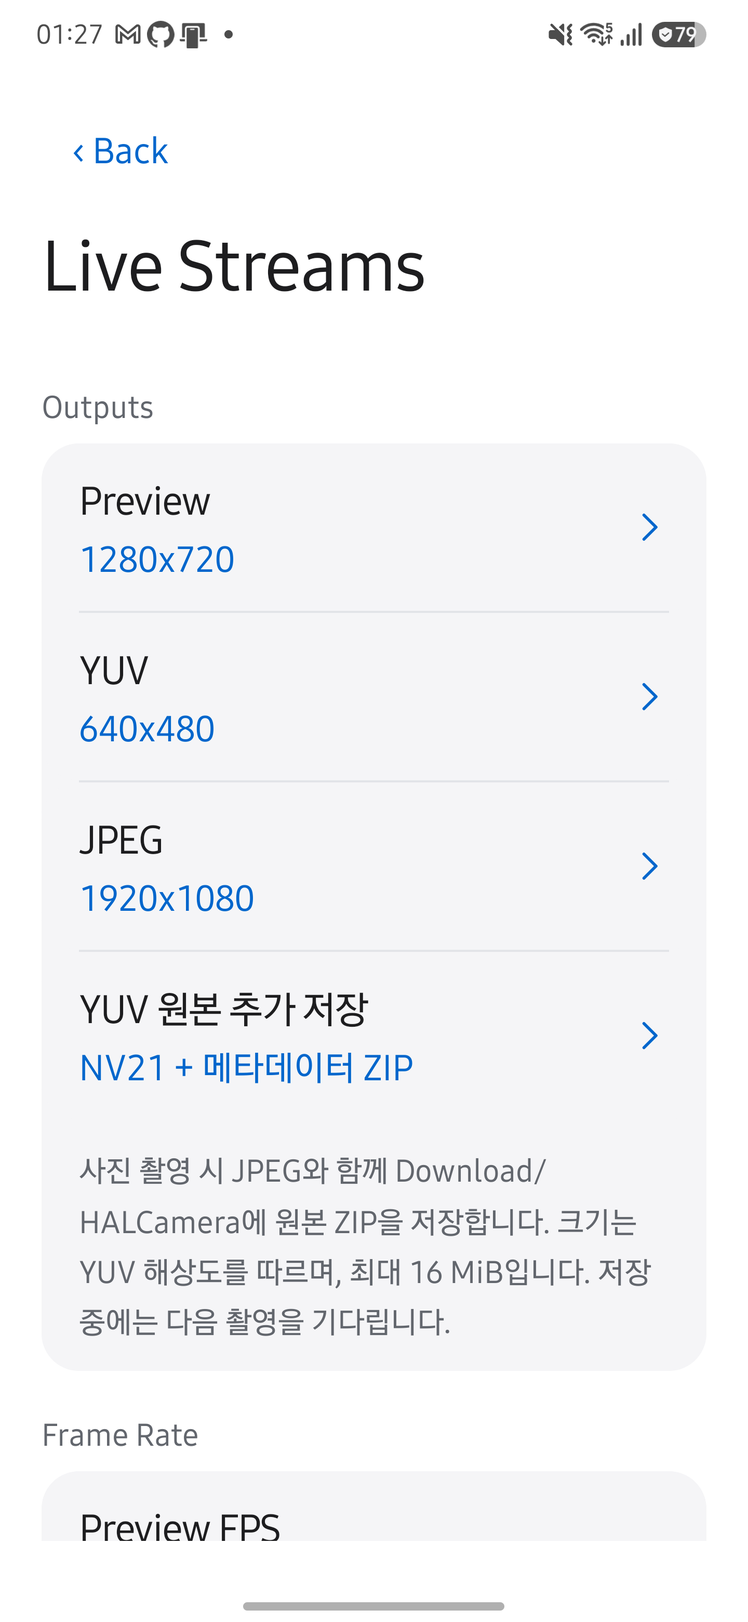
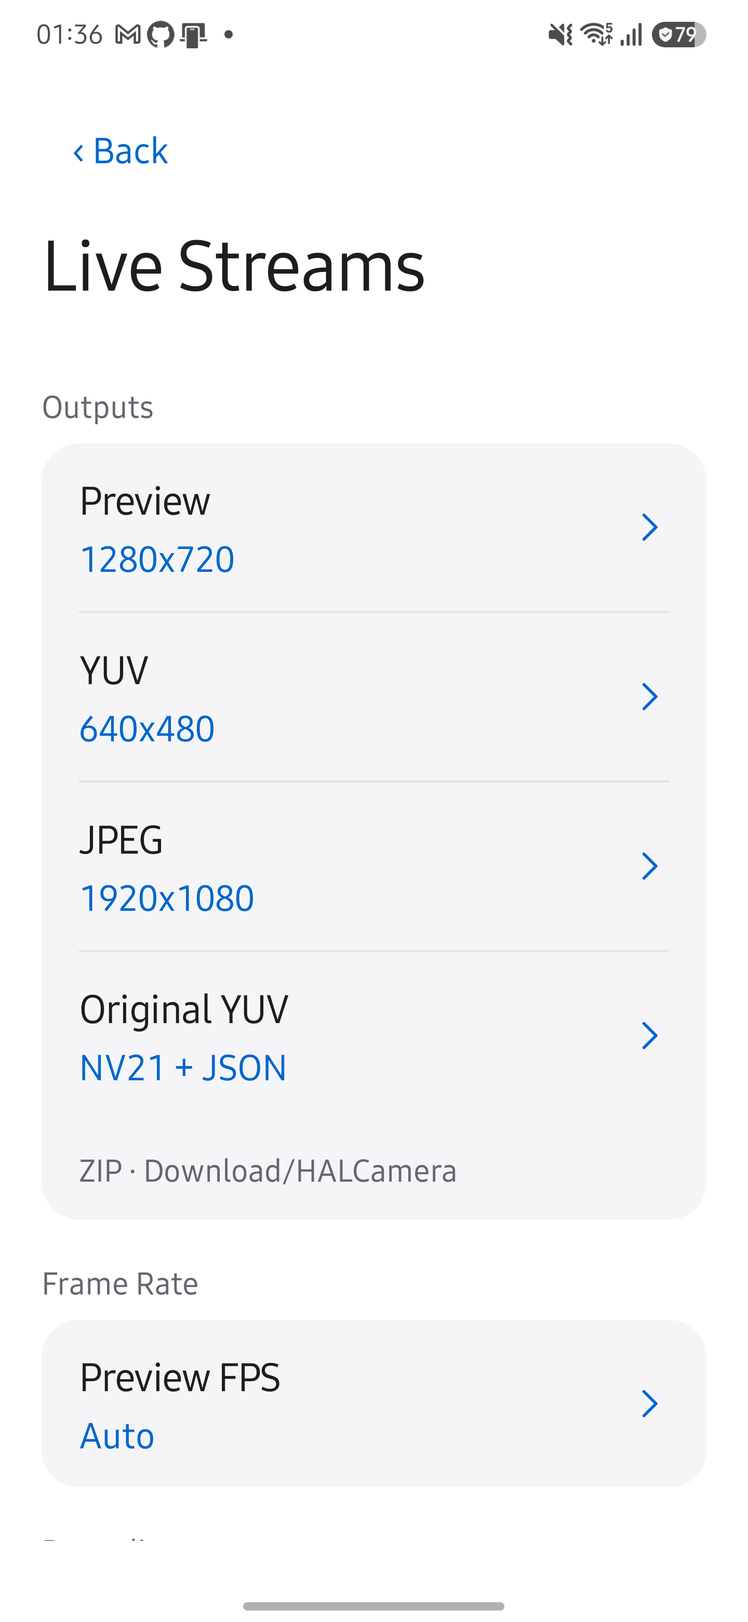
Trim YUV export UI for camera developers

diff --git a/docs/engine.html b/docs/engine.html
@@ -148,7 +148,7 @@
 <summary>근거와 검토 정보</summary><ul>
 <li>근거 파일: <code>app/src/main/java/dev/halcamera/camera/CameraEngine.kt</code>, <code>app/src/main/java/dev/halcamera/camera/Camera2Engine.kt</code>, <code>app/src/main/java/dev/halcamera/camera/CameraXEngine.kt</code>, <code>app/src/main/java/dev/halcamera/MainActivity.kt</code>, <code>app/src/main/java/dev/halcamera/ui/LiveControlBar.kt</code>, <code>app/src/main/java/dev/halcamera/ui/FocusRing.kt</code>, <code>app/src/main/java/dev/halcamera/camera/LiveControls.kt</code>, <code>app/src/main/java/dev/halcamera/benchmark/BenchmarkActivity.kt</code>, <code>app/src/main/java/dev/halcamera/benchmark/domain/StartCardPresenter.kt</code>, <code>app/src/main/java/dev/halcamera/cli/LiveController.kt</code>, <code>app/src/main/java/dev/halcamera/telemetry/Telemetry.kt</code></li>
 <li>근거 수준: 코드 확인</li>
-<li>검토 2026-10-07 @ <code>9bd40ec</code> · Codex-code-review</li>
+<li>검토 2026-10-07 @ <code>6ce2f25</code> · Codex-code-review</li>
 </ul>
 </details><!-- omm:end id=contract --><h2 id="camera2-엔진">Camera2 엔진</h2>
 <!-- omm:begin id=camera2 --><p><strong>Camera2Engine은 앱에서 CaptureRequest를 직접 구성합니다.</strong> <code>request_observed</code>에 기록한 키를 HAL 로그와 대조할 수 있습니다. 엔진 자체는 세션, 요청 구성, 줌, Live 제어를 담당하고, 사진은 <code>Camera2StillCapture</code>, Live 녹화는 <code>Camera2LiveRecorder</code>, 터치 측광은 <code>Camera2TouchFocus</code>, 벤치마크 녹화는 <code>BenchmarkRecorder</code>가 맡습니다. 카메라 요청과 capture 콜백은 엔진이 만든 카메라 스레드 하나에서 처리하고, 버퍼 relay와 파일 저장은 각자의 스레드에서 처리합니다.</p>
@@ -202,7 +202,7 @@
 </ol>
 <p>벤치마크 still은 JPEG만 대상으로 하고, JPEG 도착이 측정값이며 저장하지 않습니다.</p>
 <h4 id="yuv-원본-추가-저장">YUV 원본 추가 저장</h4>
-<p>Android 10 이상의 Camera2에서는 Live Streams의 <code>YUV 원본 추가 저장</code>을 켜면 기존 JPEG와 함께 <code>Download/HALCamera/&lt;촬영명&gt;_YUV.zip</code>을 저장합니다. YUV 출력을 켜야 하며 짝수 크기, 프레임당 16 MiB 이하만 허용합니다. CameraX에서는 이 옵션을 지원하지 않고 Camera2 전환 안내를 표시합니다. 녹화 중 사진과 CLI의 기본 촬영은 이 옵션을 사용하지 않습니다.</p>
+<p>Android 10 이상의 Camera2에서는 Live Streams의 <code>Original YUV</code>을 켜면 기존 JPEG와 함께 <code>Download/HALCamera/&lt;촬영명&gt;_YUV.zip</code>을 저장합니다. YUV 출력을 켜야 하며 짝수 크기, 프레임당 16 MiB 이하만 허용합니다. CameraX에서는 이 옵션을 지원하지 않고 Camera2 전환 안내를 표시합니다. 녹화 중 사진과 CLI의 기본 촬영은 이 옵션을 사용하지 않습니다.</p>
 <p>ZIP의 <code>frame.nv21</code>은 YUV_420_888의 크롭 영역에 있는 8비트 샘플을 손실 없이 다시 배열한 파일입니다. Y를 행 순서로 쓰고 V·U를 교대로 쓰며 패딩, 회전, JPEG 압축, 색 변환을 적용하지 않습니다. <code>metadata.json</code>에는 출력 크기·바이트 수·각 plane의 offset/rowStride/pixelStride와 원본 이미지 크기·crop·plane stride를 기록합니다. 원본 plane의 패딩이나 크롭 밖 픽셀은 보존하지 않으며, 색 행렬과 범위를 임의로 가정하지 않습니다. 저장소의 <code>docs/design/ORIGINAL-YUV.md</code>에 복원 규칙이 있습니다.</p>
 <p>원본 저장은 이미지와 같은 <code>SENSOR_TIMESTAMP</code>를 가진 최종 CaptureResult까지 기다립니다. 메타데이터에 카메라 ID, 요청 ID·태그, 프레임 번호, 센서 시각과 시각 소스, 실제 노출 시간·ISO·프레임 주기·AE 상태, JPEG 방향을 보존합니다. 결과가 없으면 5초 뒤 실패하며 다른 프리뷰 결과로 대체하지 않습니다. 타임스탬프를 알기 전에는 출력마다 최대 두 프레임만 보관하고, 알게 되면 다른 시각의 버퍼를 버립니다. 저장이 끝날 때까지 다음 촬영을 받지 않으며, 이미 저장을 시작한 촬영은 화면이 닫혀도 완료 결과를 전달합니다. RAW/DNG 저장은 아직 제공하지 않습니다.</p>
 <h3 id="녹화">녹화</h3>
@@ -260,7 +260,7 @@
 <summary>근거와 검토 정보</summary><ul>
 <li>근거 파일: <code>app/src/main/java/dev/halcamera/camera/Camera2Engine.kt</code>, <code>app/src/main/java/dev/halcamera/camera/CameraOpenRetry.kt</code>, <code>app/src/main/java/dev/halcamera/camera/CameraReleaseWait.kt</code>, <code>app/src/main/java/dev/halcamera/camera/LiveStreamSettings.kt</code>, <code>app/src/main/java/dev/halcamera/camera/LiveStabilization.kt</code>, <code>app/src/main/java/dev/halcamera/camera/LiveStreamCapabilities.kt</code>, <code>app/src/main/java/dev/halcamera/camera/LiveSessionCheck.kt</code>, <code>app/src/main/java/dev/halcamera/camera/Camera2StillCapture.kt</code>, <code>app/src/main/java/dev/halcamera/camera/Camera2LiveRecorder.kt</code>, <code>app/src/main/java/dev/halcamera/camera/Camera2VideoSnapshot.kt</code>, <code>app/src/main/java/dev/halcamera/camera/VideoSnapshot.kt</code>, <code>app/src/main/java/dev/halcamera/camera/BenchmarkRecorder.kt</code>, <code>app/src/main/java/dev/halcamera/camera/PreviewBufferRelay.kt</code>, <code>app/src/main/java/dev/halcamera/camera/RecordingBufferRelay.kt</code>, <code>app/src/main/java/dev/halcamera/camera/StreamConfiguration.kt</code>, <code>app/src/main/java/dev/halcamera/camera/StillPair.kt</code>, <code>app/src/main/java/dev/halcamera/camera/YuvPacking.kt</code>, <code>app/src/main/java/dev/halcamera/camera/OriginalYuv.kt</code>, <code>app/src/main/java/dev/halcamera/camera/StillEncoding.kt</code>, <code>app/src/main/java/dev/halcamera/camera/MediaLibrary.kt</code>, <code>app/src/main/java/dev/halcamera/camera/LiveControls.kt</code>, <code>app/src/main/java/dev/halcamera/camera/LiveControlRequests.kt</code>, <code>app/src/main/java/dev/halcamera/camera/ManualControls.kt</code>, <code>app/src/main/java/dev/halcamera/camera/ManualControlRequests.kt</code>, <code>app/src/main/java/dev/halcamera/camera/TouchMeter.kt</code>, <code>app/src/main/java/dev/halcamera/camera/TouchMeterRequests.kt</code></li>
 <li>근거 수준: 코드 확인</li>
-<li>검토 2026-10-07 @ <code>9bd40ec</code> · Codex-code-review</li>
+<li>검토 2026-10-07 @ <code>6ce2f25</code> · Codex-code-review</li>
 </ul>
 </details><!-- omm:end id=camera2 --><h2 id="camerax-엔진">CameraX 엔진</h2>
 <!-- omm:begin id=camerax --><p>CameraX의 Live Streams도 Auto·Off 및 지원되는 OIS·EIS 모드를 제공합니다. EIS 후보는 하드웨어 모드와 CameraX의 Preview·Video 보정 capability를 교차해 표시합니다. EIS (Preview + Video)는 Preview builder에, EIS (Video)는 녹화 시 VideoCapture builder에 요청합니다. 다른 builder는 미지정으로 두어 명시적인 Off가 보정을 취소하지 않게 합니다. OIS는 Camera2Interop으로 요청하고 EIS와 함께 켜지 않습니다. Auto는 보정 옵션을 지정하지 않습니다.</p>
@@ -335,7 +335,7 @@
 <summary>근거와 검토 정보</summary><ul>
 <li>근거 파일: <code>app/src/main/java/dev/halcamera/camera/CameraXEngine.kt</code>, <code>app/src/main/java/dev/halcamera/camera/CameraXStillCapture.kt</code>, <code>app/src/main/java/dev/halcamera/camera/CameraXLiveRecorder.kt</code>, <code>app/src/main/java/dev/halcamera/camera/CameraXVideoSnapshot.kt</code>, <code>app/src/main/java/dev/halcamera/camera/VideoSnapshot.kt</code>, <code>app/src/main/java/dev/halcamera/camera/CameraXControls.kt</code>, <code>app/src/main/java/dev/halcamera/camera/StillEncoding.kt</code>, <code>app/src/main/java/dev/halcamera/camera/YuvPacking.kt</code>, <code>app/src/main/java/dev/halcamera/camera/MediaLibrary.kt</code>, <code>app/src/main/java/dev/halcamera/camera/StreamConfiguration.kt</code>, <code>app/src/main/java/dev/halcamera/camera/LiveControls.kt</code>, <code>app/src/main/java/dev/halcamera/camera/TouchMeter.kt</code>, <code>app/build.gradle.kts</code></li>
 <li>근거 수준: 코드 확인</li>
-<li>검토 2026-10-07 @ <code>9bd40ec</code> · Codex-code-review</li>
+<li>검토 2026-10-07 @ <code>6ce2f25</code> · Codex-code-review</li>
 </ul>
 </details><!-- omm:end id=camerax --><h2 id="두-엔진의-차이">두 엔진의 차이</h2>
 <!-- omm:begin id=comparison --><p><strong>두 엔진의 측정값을 비교하기 전에 아래 차이가 결과에 영향을 주는지 확인하세요.</strong> 같은 조작이라도 엔진이 카메라에 보내는 요청과 앱이 기록하는 시각이 다를 수 있습니다.</p>
@@ -422,7 +422,7 @@
 <summary>근거와 검토 정보</summary><ul>
 <li>근거 파일: <code>app/src/main/java/dev/halcamera/camera/Camera2Engine.kt</code>, <code>app/src/main/java/dev/halcamera/camera/Camera2StillCapture.kt</code>, <code>app/src/main/java/dev/halcamera/camera/Camera2LiveRecorder.kt</code>, <code>app/src/main/java/dev/halcamera/camera/TouchMeterRequests.kt</code>, <code>app/src/main/java/dev/halcamera/camera/CameraXEngine.kt</code>, <code>app/src/main/java/dev/halcamera/camera/CameraXStillCapture.kt</code>, <code>app/src/main/java/dev/halcamera/camera/CameraXLiveRecorder.kt</code>, <code>app/src/main/java/dev/halcamera/camera/CameraXControls.kt</code>, <code>app/src/main/java/dev/halcamera/MainActivity.kt</code></li>
 <li>근거 수준: 코드 확인</li>
-<li>검토 2026-10-07 @ <code>9bd40ec</code> · Codex-code-review</li>
+<li>검토 2026-10-07 @ <code>6ce2f25</code> · Codex-code-review</li>
 </ul>
 </details><!-- omm:end id=comparison --><h3 id="기기에서-관찰한-차이">기기에서 관찰한 차이</h3>
 <p>Galaxy S25+에서 확인한 CameraX 관찰 결과와 검증 조건은 <a href="evidence.html#camerax-기기-관찰">Evidence</a>에 있습니다.</p>
@@ -446,27 +446,27 @@
 <tbody><tr>
 <td>구조 원본 <code>overall-architecture</code></td>
 <td>최신</td>
-<td>검토 2026-10-07 @ <code>9bd40ec</code> · Codex-code-review</td>
+<td>검토 2026-10-07 @ <code>6ce2f25</code> · Codex-code-review</td>
 </tr>
 <tr>
 <td>원고 <code>contract</code></td>
 <td>최신</td>
-<td>검토 2026-10-07 @ <code>9bd40ec</code> · Codex-code-review</td>
+<td>검토 2026-10-07 @ <code>6ce2f25</code> · Codex-code-review</td>
 </tr>
 <tr>
 <td>원고 <code>camera2</code></td>
 <td>최신</td>
-<td>검토 2026-10-07 @ <code>9bd40ec</code> · Codex-code-review</td>
+<td>검토 2026-10-07 @ <code>6ce2f25</code> · Codex-code-review</td>
 </tr>
 <tr>
 <td>원고 <code>camerax</code></td>
 <td>최신</td>
-<td>검토 2026-10-07 @ <code>9bd40ec</code> · Codex-code-review</td>
+<td>검토 2026-10-07 @ <code>6ce2f25</code> · Codex-code-review</td>
 </tr>
 <tr>
 <td>원고 <code>comparison</code></td>
 <td>최신</td>
-<td>검토 2026-10-07 @ <code>9bd40ec</code> · Codex-code-review</td>
+<td>검토 2026-10-07 @ <code>6ce2f25</code> · Codex-code-review</td>
 </tr>
 </tbody></table>
 <!-- omm:end id=status --><p>표의 <code>최신</code>은 기록된 근거와 원고가 검토 이후 바뀌지 않았다는 뜻입니다. 모든 기기에서 동작을 검증했다는 뜻은 아닙니다.</p>

diff --git a/docs/architecture.html b/docs/architecture.html
@@ -114,7 +114,7 @@
 <summary>근거와 검토 정보</summary><ul>
 <li>근거 파일: <code>app/src/main/java/dev/halcamera/cli/CommandCoordinator.kt</code>, <code>tools/halcam/halcam/cli.py</code>, <code>app/src/main/java/dev/halcamera/MainActivity.kt</code>, <code>app/src/main/java/dev/halcamera/WorkbenchActivity.kt</code>, <code>app/src/main/java/dev/halcamera/camera/CameraEngine.kt</code>, <code>app/src/main/java/dev/halcamera/telemetry/Telemetry.kt</code>, <code>app/src/main/java/dev/halcamera/telemetry/FlightRecorder.kt</code>, <code>app/src/main/java/dev/halcamera/benchmark/domain/BenchmarkRunner.kt</code>, <code>app/src/main/java/dev/halcamera/benchmark/domain/RunAssembler.kt</code>, <code>app/src/main/java/dev/halcamera/benchmark/domain/ScoreComposer.kt</code>, <code>app/src/main/java/dev/halcamera/benchmark/BenchmarkActivity.kt</code>, <code>app/src/main/java/dev/halcamera/benchmark/HistoryActivity.kt</code>, <code>app/src/main/java/dev/halcamera/benchmark/domain/RegressionDetector.kt</code></li>
 <li>근거 수준: 코드 확인</li>
-<li>검토 2026-10-07 @ <code>9bd40ec</code> · Codex-code-review</li>
+<li>검토 2026-10-07 @ <code>6ce2f25</code> · Codex-code-review</li>
 </ul>
 </details><!-- omm:end id=overview --><h2 id="전체-구조도">전체 구조도</h2>
 <p>그림을 클릭하면 확대 화면이 열립니다. 키보드에서는 Tab으로 그림을 선택한 뒤 Enter 또는 Space를 누르세요.</p>
@@ -187,7 +187,7 @@
 <summary>근거와 검토 정보</summary><ul>
 <li>근거 파일: <code>app/src/main/java/dev/halcamera/cli/CommandCoordinator.kt</code>, <code>app/src/main/java/dev/halcamera/cli/LiveController.kt</code>, <code>app/src/main/java/dev/halcamera/cli/BenchmarkController.kt</code>, <code>app/src/main/java/dev/halcamera/camera/CameraEngine.kt</code>, <code>app/src/main/java/dev/halcamera/camera/BenchmarkRecorder.kt</code>, <code>app/src/main/java/dev/halcamera/benchmark/platform/EnvironmentProbe.kt</code>, <code>app/src/main/java/dev/halcamera/benchmark/BenchmarkActivity.kt</code>, <code>app/src/main/java/dev/halcamera/benchmark/HistoryActivity.kt</code>, <code>app/src/main/java/dev/halcamera/benchmark/domain/RunIndex.kt</code>, <code>app/src/main/java/dev/halcamera/benchmark/domain/BenchmarkCsv.kt</code>, <code>app/src/main/java/dev/halcamera/benchmark/domain/ScoreComposer.kt</code>, <code>app/src/main/java/dev/halcamera/benchmark/platform/BenchmarkReport.kt</code>, <code>app/src/main/java/dev/halcamera/benchmark/domain/BenchmarkReportCodec.kt</code>, <code>app/src/main/java/dev/halcamera/telemetry/FlightRecorder.kt</code>, <code>app/src/main/java/dev/halcamera/MainActivity.kt</code>, <code>app/src/main/java/dev/halcamera/camera/RecentMediaThumbnail.kt</code>, <code>app/src/main/java/dev/halcamera/ui/RecentMediaButton.kt</code>, <code>app/src/main/java/dev/halcamera/ui/Look.kt</code>, <code>app/src/main/java/dev/halcamera/cts/recording/BasicRecordingRules.kt</code>, <code>app/src/main/java/dev/halcamera/cts/CtsEntryActivity.kt</code>, <code>app/src/main/java/dev/halcamera/cts/vendored/VendoredCaseActivity.kt</code>, <code>app/src/main/java/dev/halcamera/cts/vendored/VendoredCtsListActivity.kt</code>, <code>app/src/main/java/dev/halcamera/cts/CtsCaseActivity.kt</code>, <code>app/src/main/java/dev/halcamera/cts/CtsCaseListActivity.kt</code>, <code>app/src/main/java/dev/halcamera/cts/suite/CtsChecklistActivity.kt</code>, <code>app/src/main/java/dev/halcamera/cts/suite/CtsSuiteRunActivity.kt</code>, <code>app/src/main/java/dev/halcamera/cts/suite/SuitePlan.kt</code>, <code>app/src/main/java/dev/halcamera/cts/suite/SuiteReport.kt</code>, <code>app/src/main/java/dev/halcamera/cts/CtsCatalog.kt</code>, <code>app/src/main/java/dev/halcamera/cts/CtsRunner.kt</code>, <code>app/src/main/java/dev/halcamera/cts/CameraCaseRunner.kt</code>, <code>app/src/main/java/dev/halcamera/cts/Camera2Ops.kt</code>, <code>app/src/main/java/dev/halcamera/cts/onoff/FastOnOffRules.kt</code>, <code>app/src/main/java/dev/halcamera/cts/switching/SwitchingRules.kt</code>, <code>app/src/main/java/dev/halcamera/cts/sizes/AllSizeOnOffRules.kt</code>, <code>app/src/main/java/dev/halcamera/cts/combination/StillPreviewCombinationRules.kt</code>, <code>app/src/main/java/dev/halcamera/cts/snapshot/VideoSnapshotRules.kt</code>, <code>app/src/main/java/dev/halcamera/CameraProbeActivity.kt</code>, <code>app/src/main/java/dev/halcamera/camera/CameraProbe.kt</code>, <code>app/src/main/java/dev/halcamera/camera/CameraProbeReader.kt</code></li>
 <li>근거 수준: 코드 확인</li>
-<li>검토 2026-10-07 @ <code>9bd40ec</code> · Codex-code-review</li>
+<li>검토 2026-10-07 @ <code>6ce2f25</code> · Codex-code-review</li>
 </ul>
 </details><!-- omm:end id=module-roles --><h2 id="주요-실행-흐름">주요 실행 흐름</h2>
 <!-- omm:begin id=runtime-flow --><p><strong>실행 실패는 러너 결과에서, 측정값의 차이는 이벤트와 계산 규칙에서 확인하세요.</strong> 벤치마크의 입력은 카메라 콜백 이벤트와 러너가 기록한 실행 시각입니다.</p>
@@ -370,7 +370,7 @@
 <summary>근거와 검토 정보</summary><ul>
 <li>근거 파일: <code>app/src/main/java/dev/halcamera/cli/CliProvider.kt</code>, <code>app/src/main/java/dev/halcamera/cli/CommandCoordinator.kt</code>, <code>app/src/main/java/dev/halcamera/cli/CommandStore.kt</code>, <code>app/src/main/java/dev/halcamera/camera/CameraEngine.kt</code>, <code>app/src/main/java/dev/halcamera/camera/CameraEndpointResolver.kt</code>, <code>app/src/main/java/dev/halcamera/telemetry/IncidentExporter.kt</code>, <code>app/src/main/java/dev/halcamera/benchmark/domain/BenchmarkRunner.kt</code>, <code>app/src/main/java/dev/halcamera/benchmark/domain/RunValidity.kt</code>, <code>app/src/main/java/dev/halcamera/benchmark/domain/ScoreComposer.kt</code>, <code>app/src/main/java/dev/halcamera/benchmark/domain/RegressionRules.kt</code>, <code>app/src/main/java/dev/halcamera/benchmark/platform/BenchmarkReport.kt</code>, <code>app/src/main/java/dev/halcamera/benchmark/domain/BenchmarkReportCodec.kt</code>, <code>app/src/main/java/dev/halcamera/benchmark/platform/BenchmarkStore.kt</code>, <code>app/src/main/java/dev/halcamera/benchmark/domain/BenchmarkIndex.kt</code>, <code>app/src/main/java/dev/halcamera/benchmark/domain/AtomicFiles.kt</code></li>
 <li>근거 수준: 코드 확인</li>
-<li>검토 2026-10-07 @ <code>9bd40ec</code> · Codex-code-review</li>
+<li>검토 2026-10-07 @ <code>6ce2f25</code> · Codex-code-review</li>
 </ul>
 </details><!-- omm:end id=constraints --><h2 id="변경-후-검증">변경 후 검증</h2>
 <p>Android 의존성이 없는 러너와 평가 로직은 JVM 단위 테스트로 확인할 수 있습니다. 저장소 루트에서 실행하세요.</p>
@@ -414,7 +414,7 @@
 <tr>
 <td>구조 원본 <code>overall-architecture</code></td>
 <td>최신</td>
-<td>검토 2026-10-07 @ <code>9bd40ec</code> · Codex-code-review</td>
+<td>검토 2026-10-07 @ <code>6ce2f25</code> · Codex-code-review</td>
 </tr>
 <tr>
 <td>구조 원본 <code>state-transitions</code></td>
@@ -439,12 +439,12 @@
 <tr>
 <td>원고 <code>overview</code></td>
 <td>최신</td>
-<td>검토 2026-10-07 @ <code>9bd40ec</code> · Codex-code-review</td>
+<td>검토 2026-10-07 @ <code>6ce2f25</code> · Codex-code-review</td>
 </tr>
 <tr>
 <td>원고 <code>module-roles</code></td>
 <td>최신</td>
-<td>검토 2026-10-07 @ <code>9bd40ec</code> · Codex-code-review</td>
+<td>검토 2026-10-07 @ <code>6ce2f25</code> · Codex-code-review</td>
 </tr>
 <tr>
 <td>원고 <code>runtime-flow</code></td>
@@ -454,7 +454,7 @@
 <tr>
 <td>원고 <code>constraints</code></td>
 <td>최신</td>
-<td>검토 2026-10-07 @ <code>9bd40ec</code> · Codex-code-review</td>
+<td>검토 2026-10-07 @ <code>6ce2f25</code> · Codex-code-review</td>
 </tr>
 </tbody></table>
 <!-- omm:end id=status --><p>표의 <code>최신</code>은 기록된 근거와 원고가 검토 이후 바뀌지 않았다는 뜻입니다. 모든 기기에서 동작을 검증했다는 뜻은 아닙니다.</p>

diff --git a/app/src/main/java/dev/halcamera/camera/Camera2StillCapture.kt b/app/src/main/java/dev/halcamera/camera/Camera2StillCapture.kt
@@ -194,7 +194,7 @@ internal class Camera2StillCapture(
             val request = host.stillRequest(camera, c, tag, pending?.rotation)
             inFlight = true
             photo = pending
-            if (pending != null) host.report("Capturing ${photoLabel()}… Say cheese.", false)
+            if (pending != null) host.report("Capturing ${photoLabel()}…", false)
             telemetry.event(sessionId, "capture_submit", mapOf("requestTag" to tag, "api" to "CameraCaptureSession.capture", "zoomRequested" to host.zoomRequested))
             session.capture(request, if (pending == null) host.captureCallback else photoCallback(pending), handler)
             handler.postDelayed({
@@ -253,7 +253,7 @@ internal class Camera2StillCapture(
         val (yuvFrame, jpegBytes) = pending.pair.selected(host.captureYuv, host.captureJpeg) ?: return
         pending.pair.clear() // Only the IO job owns the selected buffers from this point.
         photo = null // Keep inFlight until the pair has been written.
-        host.report(if (pending.originalYuv) "Saving JPEG and original YUV ZIP to Download/HALCamera…" else "Saving photos…", false)
+        host.report(if (pending.originalYuv) "Saving JPEG + NV21…" else "Saving JPEG…", false)
         mediaIo.execute {
             val result = runCatching { library.savePhotos(pending.name, yuvFrame?.let { encodeYuvStill(it, pending.rotation) }, jpegBytes,
                 yuvFrame?.original, pending.captureMetadata.orEmpty()) }
@@ -279,12 +279,12 @@ internal class Camera2StillCapture(
                 inFlight = false
                 result.fold({
                     host.report(savedMessage(pending, it.size), true)
-                }, { host.report("Photo save failed: ${it.message} · Ready for another shot.", true) })
+                }, { host.report("Save failed: ${it.message}", true) })
             }
         }
     }
     private fun savedMessage(pending: Photo, count: Int) = if (pending.originalYuv)
-        "Saved $count files. Original YUV ZIP: Download/HALCamera/${pending.name}_YUV.zip"
-        else "Saved $count ${photoLabel()} shots. Pixels secured."
+        "Saved $count files · JPEG + NV21"
+        else "Saved $count JPEG"
     private fun photoLabel() = listOfNotNull(if (host.captureYuv) "YUV" else null, if (host.captureJpeg) "JPEG" else null).joinToString(" · ")
 }

diff --git a/app/src/main/java/dev/halcamera/ui/LiveStreamSettingsView.kt b/app/src/main/java/dev/halcamera/ui/LiveStreamSettingsView.kt
@@ -89,13 +89,16 @@ object LiveStreamSettingsView {
         choice(outputs, "Preview", { sizes(support.preview) }, { preview }, { preview = it }) { it.toString() }
         choice(outputs, "YUV", { sizes(support.yuv) + listOf(null) }, { yuv }, { yuv = it }) { it?.toString() ?: "Off" }
         choice(outputs, "JPEG", { sizes(support.jpeg) + listOf(null) }, { jpeg }, { jpeg = it }) { it?.toString() ?: "Off" }
-        choice(outputs, "YUV 원본 추가 저장", { if (support.originalYuv) listOf(false, true) else emptyList() },
-            { originalYuv }, { originalYuv = it }) { if (it) "NV21 + 메타데이터 ZIP" else "끄기" }
-        outputs.addView(Look.text(themed, if (support.originalYuv)
-            "사진 촬영 시 JPEG와 함께 Download/HALCamera에 원본 ZIP을 저장합니다. 크기는 YUV 해상도를 따르며, 최대 16 MiB입니다. 저장 중에는 다음 촬영을 기다립니다."
-            else "YUV 원본 저장은 Android 10 이상의 Camera2에서 지원합니다. Camera2로 전환해 사용하세요.", 13, Look.inkMuted).apply {
+        choice(outputs, "Original YUV", { if (support.originalYuv) listOf(false, true) else emptyList() },
+            { originalYuv }, { originalYuv = it }) { if (it) "NV21 + JSON" else "Off" }
+        val exportHint = Look.text(themed, "", 13, Look.inkMuted).apply {
             setPadding(dp(18), dp(14), dp(18), dp(14))
-        })
+        }
+        outputs.addView(exportHint)
+        refreshers += {
+            exportHint.text = if (support.originalYuv) "ZIP · Download/HALCamera" else "Camera2 · Android 10+ required"
+            exportHint.visibility = if (originalYuv || !support.originalYuv) View.VISIBLE else View.GONE
+        }
         val timing = section("Frame Rate")
         choice(timing, "Preview FPS", { listOf(null) + support.fps }, { fps }, { fps = it }) { it?.toString() ?: "Auto" }
         val recording = section("Recording")

diff --git a/docs/evidence.html b/docs/evidence.html
@@ -132,7 +132,7 @@
 <li>근거 파일: <code>app/src/main/java/dev/halcamera/camera/CameraXControls.kt</code>, <code>app/src/main/java/dev/halcamera/camera/CameraXStillCapture.kt</code>, <code>app/src/main/java/dev/halcamera/camera/CameraXLiveRecorder.kt</code></li>
 <li>기기 검증: <code>V-002</code></li>
 <li>근거 수준: 기기 검증</li>
-<li>검토 2026-10-07 @ <code>9bd40ec</code> · Codex-code-review</li>
+<li>검토 2026-10-07 @ <code>6ce2f25</code> · Codex-code-review</li>
 </ul>
 </details><!-- omm:end id=device-notes --><h2 id="문서를-수정하고-검증하세요">문서를 수정하고 검증하세요</h2>
 <pre><code class="language-mermaid">flowchart LR
@@ -207,12 +207,12 @@ node tools/docgen/docflow.mjs check --ci
 <tbody><tr>
 <td>구조 원본 <code>overall-architecture</code></td>
 <td>최신</td>
-<td>검토 2026-10-07 @ <code>9bd40ec</code> · Codex-code-review</td>
+<td>검토 2026-10-07 @ <code>6ce2f25</code> · Codex-code-review</td>
 </tr>
 <tr>
 <td>원고 <code>device-notes</code></td>
 <td>최신</td>
-<td>검토 2026-10-07 @ <code>9bd40ec</code> · Codex-code-review</td>
+<td>검토 2026-10-07 @ <code>6ce2f25</code> · Codex-code-review</td>
 </tr>
 </tbody></table>
 <!-- omm:end id=status --><p><strong>다음 단계:</strong> 구현 구조는 <a href="architecture.html">Architecture</a>, 과거의 선택은 <a href="_inputs/decisions.html">설계 결정 원문</a>에서 확인하세요.</p>

diff --git a/guide/engine.md b/guide/engine.md
@@ -92,7 +92,7 @@ Live 제어와 터치 측광은 다음 이벤트를 추가로 남깁니다.
 
 - 근거 파일: `app/src/main/java/dev/halcamera/camera/CameraEngine.kt`, `app/src/main/java/dev/halcamera/camera/Camera2Engine.kt`, `app/src/main/java/dev/halcamera/camera/CameraXEngine.kt`, `app/src/main/java/dev/halcamera/MainActivity.kt`, `app/src/main/java/dev/halcamera/ui/LiveControlBar.kt`, `app/src/main/java/dev/halcamera/ui/FocusRing.kt`, `app/src/main/java/dev/halcamera/camera/LiveControls.kt`, `app/src/main/java/dev/halcamera/benchmark/BenchmarkActivity.kt`, `app/src/main/java/dev/halcamera/benchmark/domain/StartCardPresenter.kt`, `app/src/main/java/dev/halcamera/cli/LiveController.kt`, `app/src/main/java/dev/halcamera/telemetry/Telemetry.kt`
 - 근거 수준: 코드 확인
-- 검토 2026-10-07 @ `9bd40ec` · Codex-code-review
+- 검토 2026-10-07 @ `6ce2f25` · Codex-code-review
 
 </details>
 
@@ -153,7 +153,7 @@ Live에서 첫 프레임 전에 카메라 열기가 `onDisconnected`나 `onError
 
 #### YUV 원본 추가 저장
 
-Android 10 이상의 Camera2에서는 Live Streams의 `YUV 원본 추가 저장`을 켜면 기존 JPEG와 함께 `Download/HALCamera/<촬영명>_YUV.zip`을 저장합니다. YUV 출력을 켜야 하며 짝수 크기, 프레임당 16 MiB 이하만 허용합니다. CameraX에서는 이 옵션을 지원하지 않고 Camera2 전환 안내를 표시합니다. 녹화 중 사진과 CLI의 기본 촬영은 이 옵션을 사용하지 않습니다.
+Android 10 이상의 Camera2에서는 Live Streams의 `Original YUV`을 켜면 기존 JPEG와 함께 `Download/HALCamera/<촬영명>_YUV.zip`을 저장합니다. YUV 출력을 켜야 하며 짝수 크기, 프레임당 16 MiB 이하만 허용합니다. CameraX에서는 이 옵션을 지원하지 않고 Camera2 전환 안내를 표시합니다. 녹화 중 사진과 CLI의 기본 촬영은 이 옵션을 사용하지 않습니다.
 
 ZIP의 `frame.nv21`은 YUV_420_888의 크롭 영역에 있는 8비트 샘플을 손실 없이 다시 배열한 파일입니다. Y를 행 순서로 쓰고 V·U를 교대로 쓰며 패딩, 회전, JPEG 압축, 색 변환을 적용하지 않습니다. `metadata.json`에는 출력 크기·바이트 수·각 plane의 offset/rowStride/pixelStride와 원본 이미지 크기·crop·plane stride를 기록합니다. 원본 plane의 패딩이나 크롭 밖 픽셀은 보존하지 않으며, 색 행렬과 범위를 임의로 가정하지 않습니다. 저장소의 `docs/design/ORIGINAL-YUV.md`에 복원 규칙이 있습니다.
 
@@ -204,7 +204,7 @@ ZIP의 `frame.nv21`은 YUV_420_888의 크롭 영역에 있는 8비트 샘플을 
 
 - 근거 파일: `app/src/main/java/dev/halcamera/camera/Camera2Engine.kt`, `app/src/main/java/dev/halcamera/camera/CameraOpenRetry.kt`, `app/src/main/java/dev/halcamera/camera/CameraReleaseWait.kt`, `app/src/main/java/dev/halcamera/camera/LiveStreamSettings.kt`, `app/src/main/java/dev/halcamera/camera/LiveStabilization.kt`, `app/src/main/java/dev/halcamera/camera/LiveStreamCapabilities.kt`, `app/src/main/java/dev/halcamera/camera/LiveSessionCheck.kt`, `app/src/main/java/dev/halcamera/camera/Camera2StillCapture.kt`, `app/src/main/java/dev/halcamera/camera/Camera2LiveRecorder.kt`, `app/src/main/java/dev/halcamera/camera/Camera2VideoSnapshot.kt`, `app/src/main/java/dev/halcamera/camera/VideoSnapshot.kt`, `app/src/main/java/dev/halcamera/camera/BenchmarkRecorder.kt`, `app/src/main/java/dev/halcamera/camera/PreviewBufferRelay.kt`, `app/src/main/java/dev/halcamera/camera/RecordingBufferRelay.kt`, `app/src/main/java/dev/halcamera/camera/StreamConfiguration.kt`, `app/src/main/java/dev/halcamera/camera/StillPair.kt`, `app/src/main/java/dev/halcamera/camera/YuvPacking.kt`, `app/src/main/java/dev/halcamera/camera/OriginalYuv.kt`, `app/src/main/java/dev/halcamera/camera/StillEncoding.kt`, `app/src/main/java/dev/halcamera/camera/MediaLibrary.kt`, `app/src/main/java/dev/halcamera/camera/LiveControls.kt`, `app/src/main/java/dev/halcamera/camera/LiveControlRequests.kt`, `app/src/main/java/dev/halcamera/camera/ManualControls.kt`, `app/src/main/java/dev/halcamera/camera/ManualControlRequests.kt`, `app/src/main/java/dev/halcamera/camera/TouchMeter.kt`, `app/src/main/java/dev/halcamera/camera/TouchMeterRequests.kt`
 - 근거 수준: 코드 확인
-- 검토 2026-10-07 @ `9bd40ec` · Codex-code-review
+- 검토 2026-10-07 @ `6ce2f25` · Codex-code-review
 
 </details>
 
@@ -285,7 +285,7 @@ AE 재잠금은 Camera2와 같은 `AeRelock` 규칙을 씁니다. 다만 CameraX
 
 - 근거 파일: `app/src/main/java/dev/halcamera/camera/CameraXEngine.kt`, `app/src/main/java/dev/halcamera/camera/CameraXStillCapture.kt`, `app/src/main/java/dev/halcamera/camera/CameraXLiveRecorder.kt`, `app/src/main/java/dev/halcamera/camera/CameraXVideoSnapshot.kt`, `app/src/main/java/dev/halcamera/camera/VideoSnapshot.kt`, `app/src/main/java/dev/halcamera/camera/CameraXControls.kt`, `app/src/main/java/dev/halcamera/camera/StillEncoding.kt`, `app/src/main/java/dev/halcamera/camera/YuvPacking.kt`, `app/src/main/java/dev/halcamera/camera/MediaLibrary.kt`, `app/src/main/java/dev/halcamera/camera/StreamConfiguration.kt`, `app/src/main/java/dev/halcamera/camera/LiveControls.kt`, `app/src/main/java/dev/halcamera/camera/TouchMeter.kt`, `app/build.gradle.kts`
 - 근거 수준: 코드 확인
-- 검토 2026-10-07 @ `9bd40ec` · Codex-code-review
+- 검토 2026-10-07 @ `6ce2f25` · Codex-code-review
 
 </details>
 
@@ -319,7 +319,7 @@ AE 재잠금은 Camera2와 같은 `AeRelock` 규칙을 씁니다. 다만 CameraX
 
 - 근거 파일: `app/src/main/java/dev/halcamera/camera/Camera2Engine.kt`, `app/src/main/java/dev/halcamera/camera/Camera2StillCapture.kt`, `app/src/main/java/dev/halcamera/camera/Camera2LiveRecorder.kt`, `app/src/main/java/dev/halcamera/camera/TouchMeterRequests.kt`, `app/src/main/java/dev/halcamera/camera/CameraXEngine.kt`, `app/src/main/java/dev/halcamera/camera/CameraXStillCapture.kt`, `app/src/main/java/dev/halcamera/camera/CameraXLiveRecorder.kt`, `app/src/main/java/dev/halcamera/camera/CameraXControls.kt`, `app/src/main/java/dev/halcamera/MainActivity.kt`
 - 근거 수준: 코드 확인
-- 검토 2026-10-07 @ `9bd40ec` · Codex-code-review
+- 검토 2026-10-07 @ `6ce2f25` · Codex-code-review
 
 </details>
 
@@ -348,11 +348,11 @@ Camera2도 JPEG를 받은 뒤에는 저장이 끝날 때까지 촬영 자리를 
 
 | 항목 | 최신성 | 검토 |
 | --- | --- | --- |
-| 구조 원본 `overall-architecture` | 최신 | 검토 2026-10-07 @ `9bd40ec` · Codex-code-review |
-| 원고 `contract` | 최신 | 검토 2026-10-07 @ `9bd40ec` · Codex-code-review |
-| 원고 `camera2` | 최신 | 검토 2026-10-07 @ `9bd40ec` · Codex-code-review |
-| 원고 `camerax` | 최신 | 검토 2026-10-07 @ `9bd40ec` · Codex-code-review |
-| 원고 `comparison` | 최신 | 검토 2026-10-07 @ `9bd40ec` · Codex-code-review |
+| 구조 원본 `overall-architecture` | 최신 | 검토 2026-10-07 @ `6ce2f25` · Codex-code-review |
+| 원고 `contract` | 최신 | 검토 2026-10-07 @ `6ce2f25` · Codex-code-review |
+| 원고 `camera2` | 최신 | 검토 2026-10-07 @ `6ce2f25` · Codex-code-review |
+| 원고 `camerax` | 최신 | 검토 2026-10-07 @ `6ce2f25` · Codex-code-review |
+| 원고 `comparison` | 최신 | 검토 2026-10-07 @ `6ce2f25` · Codex-code-review |
 
 <!-- omm:end id=status -->
 

diff --git a/guide/_content/engine/camera2.md b/guide/_content/engine/camera2.md
@@ -83,7 +83,7 @@ Live에서 첫 프레임 전에 카메라 열기가 `onDisconnected`나 `onError
 
 #### YUV 원본 추가 저장
 
-Android 10 이상의 Camera2에서는 Live Streams의 `YUV 원본 추가 저장`을 켜면 기존 JPEG와 함께 `Download/HALCamera/<촬영명>_YUV.zip`을 저장합니다. YUV 출력을 켜야 하며 짝수 크기, 프레임당 16 MiB 이하만 허용합니다. CameraX에서는 이 옵션을 지원하지 않고 Camera2 전환 안내를 표시합니다. 녹화 중 사진과 CLI의 기본 촬영은 이 옵션을 사용하지 않습니다.
+Android 10 이상의 Camera2에서는 Live Streams의 `Original YUV`을 켜면 기존 JPEG와 함께 `Download/HALCamera/<촬영명>_YUV.zip`을 저장합니다. YUV 출력을 켜야 하며 짝수 크기, 프레임당 16 MiB 이하만 허용합니다. CameraX에서는 이 옵션을 지원하지 않고 Camera2 전환 안내를 표시합니다. 녹화 중 사진과 CLI의 기본 촬영은 이 옵션을 사용하지 않습니다.
 
 ZIP의 `frame.nv21`은 YUV_420_888의 크롭 영역에 있는 8비트 샘플을 손실 없이 다시 배열한 파일입니다. Y를 행 순서로 쓰고 V·U를 교대로 쓰며 패딩, 회전, JPEG 압축, 색 변환을 적용하지 않습니다. `metadata.json`에는 출력 크기·바이트 수·각 plane의 offset/rowStride/pixelStride와 원본 이미지 크기·crop·plane stride를 기록합니다. 원본 plane의 패딩이나 크롭 밖 픽셀은 보존하지 않으며, 색 행렬과 범위를 임의로 가정하지 않습니다. 저장소의 `docs/design/ORIGINAL-YUV.md`에 복원 규칙이 있습니다.
 

diff --git a/docs/design/ORIGINAL-YUV.md b/docs/design/ORIGINAL-YUV.md
@@ -1,12 +1,12 @@
 # Live YUV 원본 저장
 
-Camera2의 Live Streams에서 **YUV 원본 추가 저장**을 켜면 사진마다 기존 JPEG와 원본 ZIP을 저장합니다. Android 10 이상에서 YUV 출력을 켠 경우에 사용할 수 있습니다. CameraX, 녹화 중 사진, Benchmark에는 적용하지 않습니다. RAW/DNG는 #177의 후속 작업으로 남아 있습니다.
+Camera2의 Live Streams에서 **Original YUV**을 켜면 사진마다 기존 JPEG와 원본 ZIP을 저장합니다. Android 10 이상에서 YUV 출력을 켠 경우에 사용할 수 있습니다. CameraX, 녹화 중 사진, Benchmark에는 적용하지 않습니다. RAW/DNG는 #177의 후속 작업으로 남아 있습니다.
 
 ## 사용 순서
 
 1. Camera2 Live에서 크기 표시를 눌러 Live Streams를 엽니다.
 2. YUV 해상도를 선택합니다. 가로·세로가 짝수이며 NV21 크기가 16 MiB 이하인 해상도만 원본 저장을 허용합니다.
-3. `YUV 원본 추가 저장`에서 `NV21 + 메타데이터 ZIP`을 선택하고 저장합니다.
+3. `Original YUV`에서 `NV21 + JSON`을 선택하고 저장합니다.
 4. 사진을 촬영합니다. 저장 중에는 새 사진 요청을 받지 않습니다.
 5. 파일 앱의 `Download/HALCamera/<촬영명>_YUV.zip`을 엽니다. 기존 JPEG는 `DCIM/HALCamera`에 있습니다.
 
